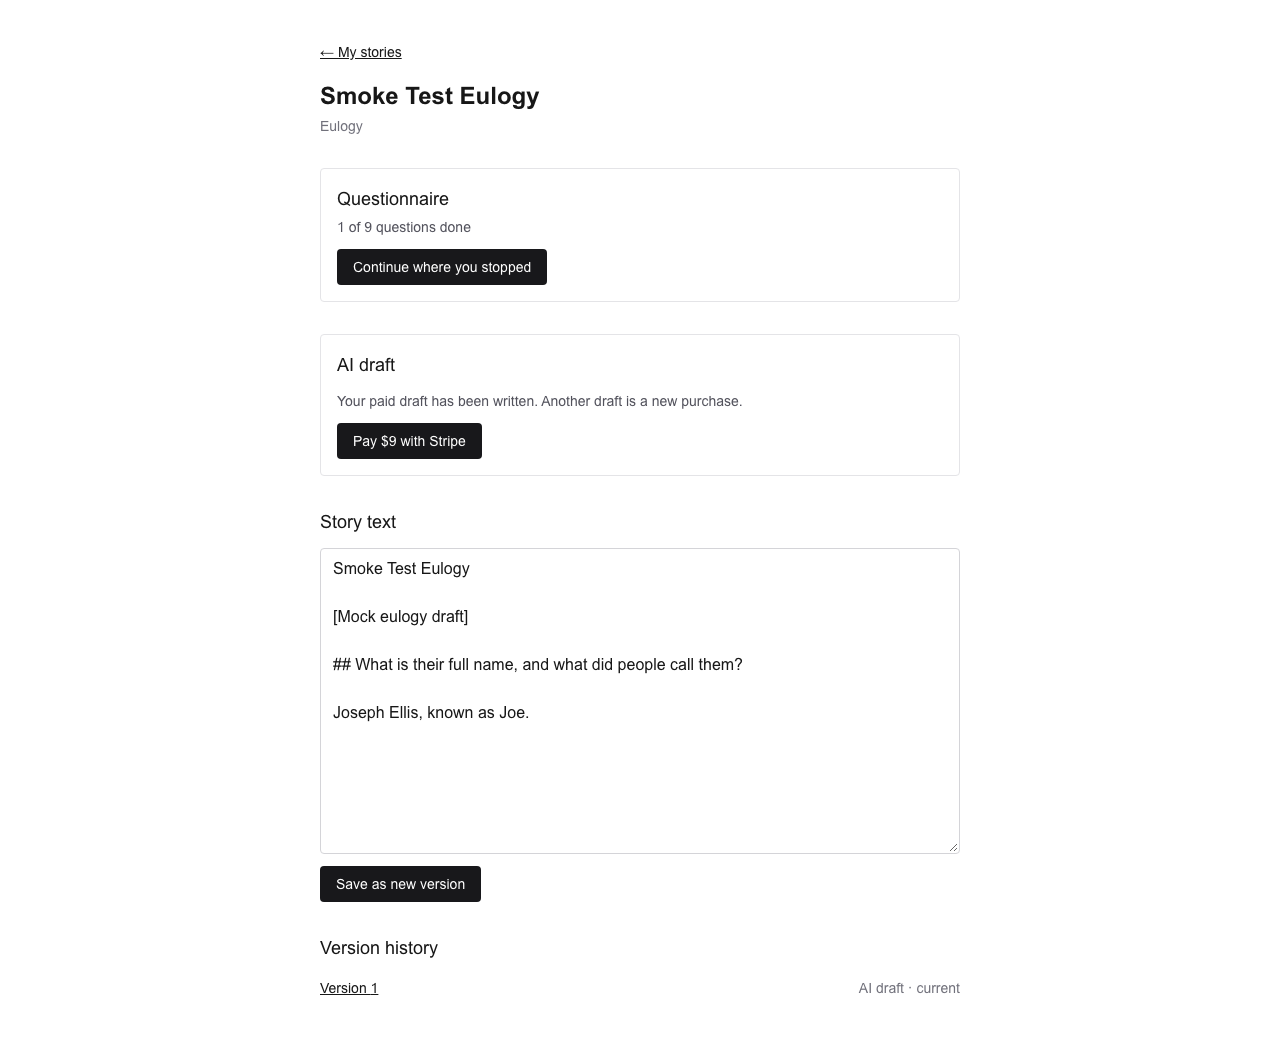
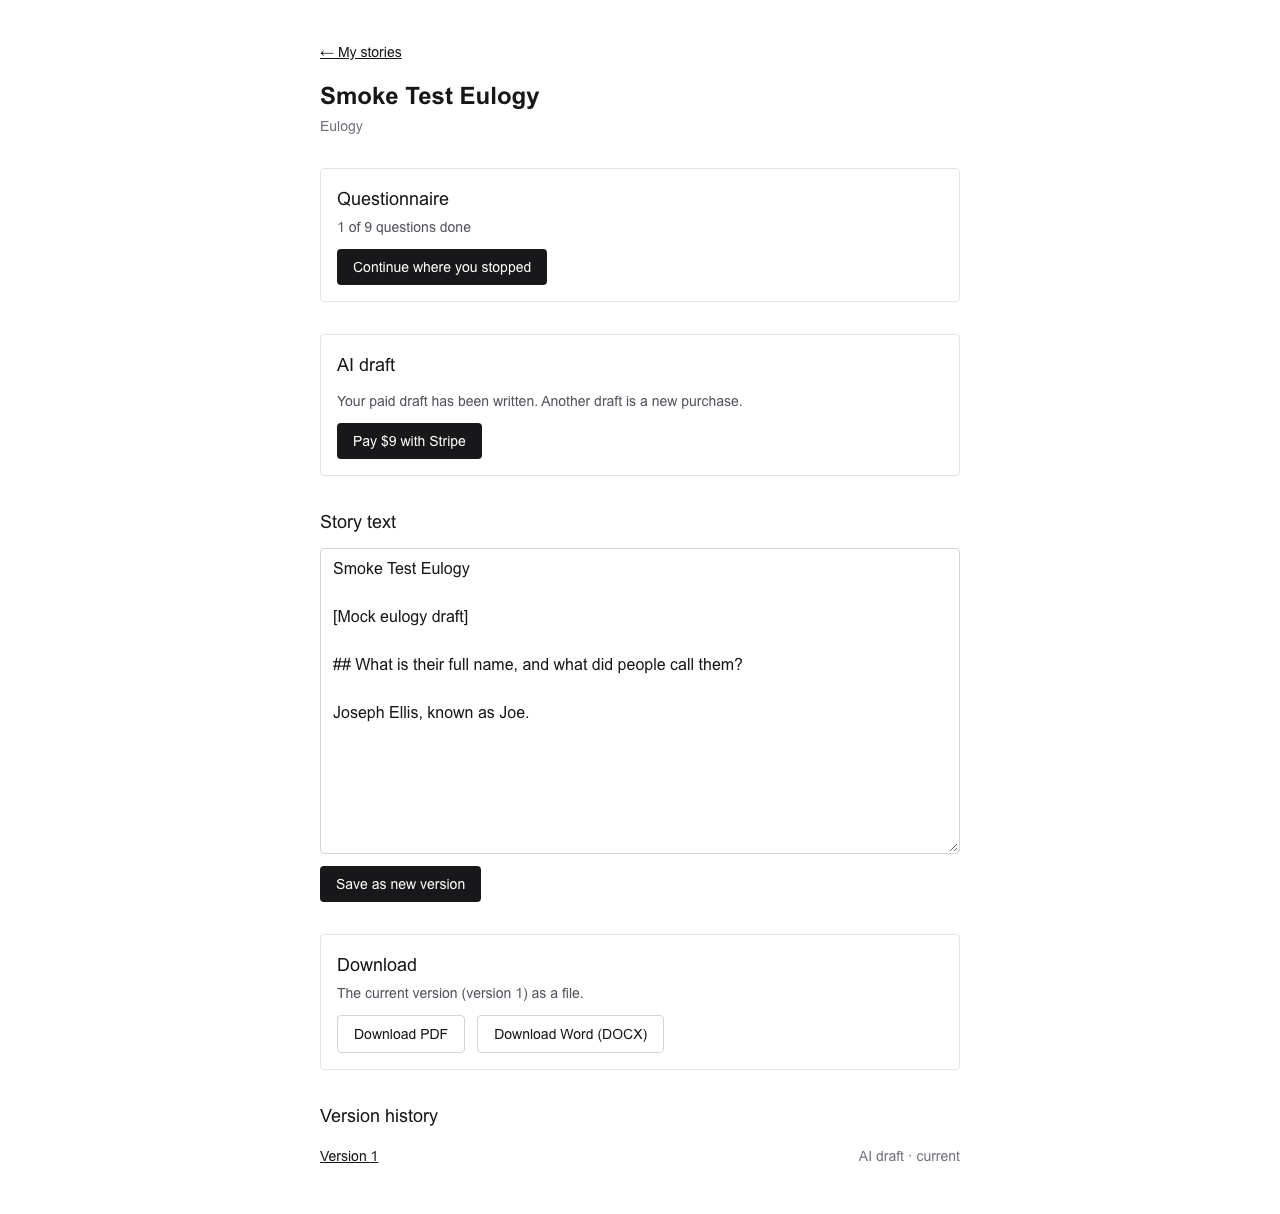
docs: record the live-site export check

diff --git a/docs/DEPLOY.md b/docs/DEPLOY.md
@@ -93,6 +93,10 @@ the test card 4242, saw the page unlock after Stripe called the deployed
 webhook, and got a draft as version 1 with no worker process running.
 Screenshot: [evidence/deployed-smoke.png](evidence/deployed-smoke.png).
 
+Run again on 2026-10-13 after M6: passed in 17.8s, now also downloading the
+PDF and the Word file from the live site. That proves the PDF fonts are
+shipped with the export function on Vercel.
+
 What this proves about production: the Neon database and its migrations, the
 login, the Stripe webhook endpoint with its signing secret, and the job queue
 driven by `after()`.
